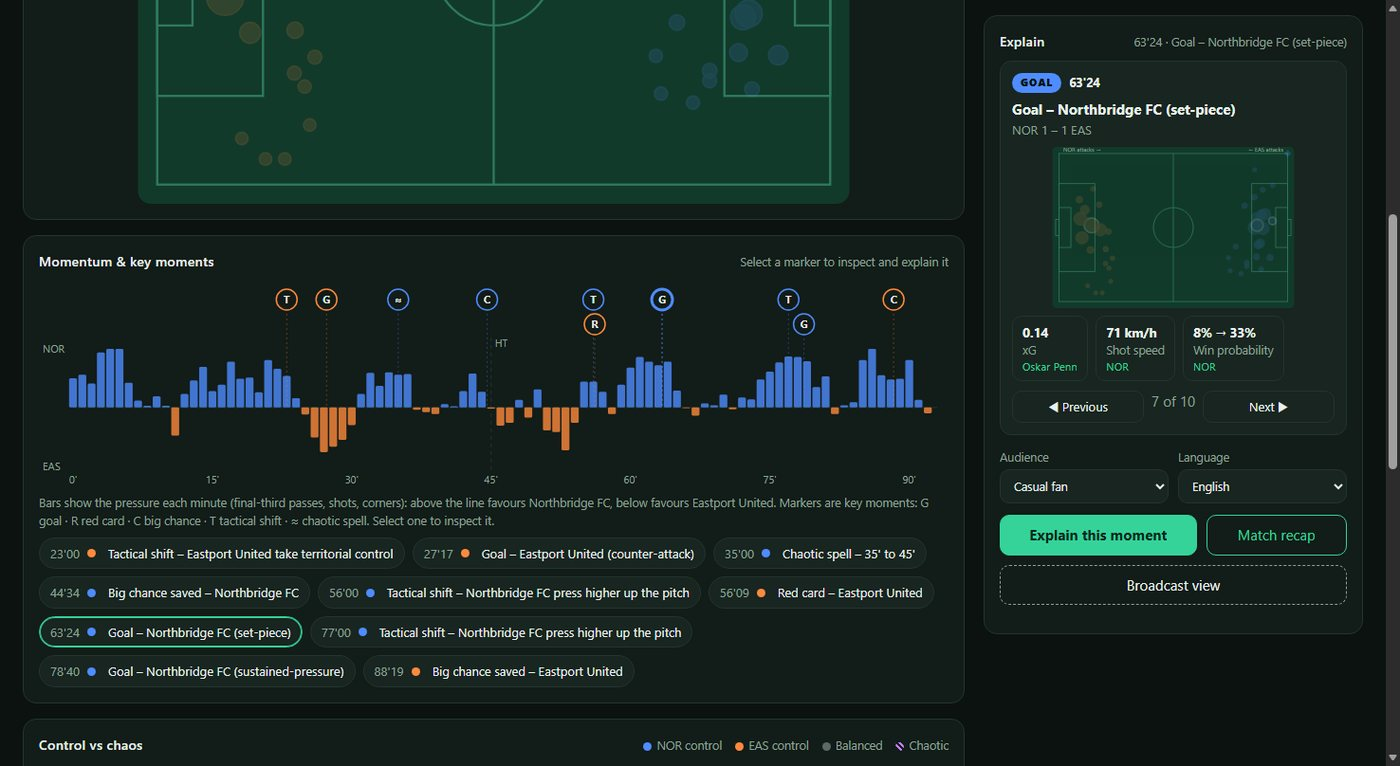
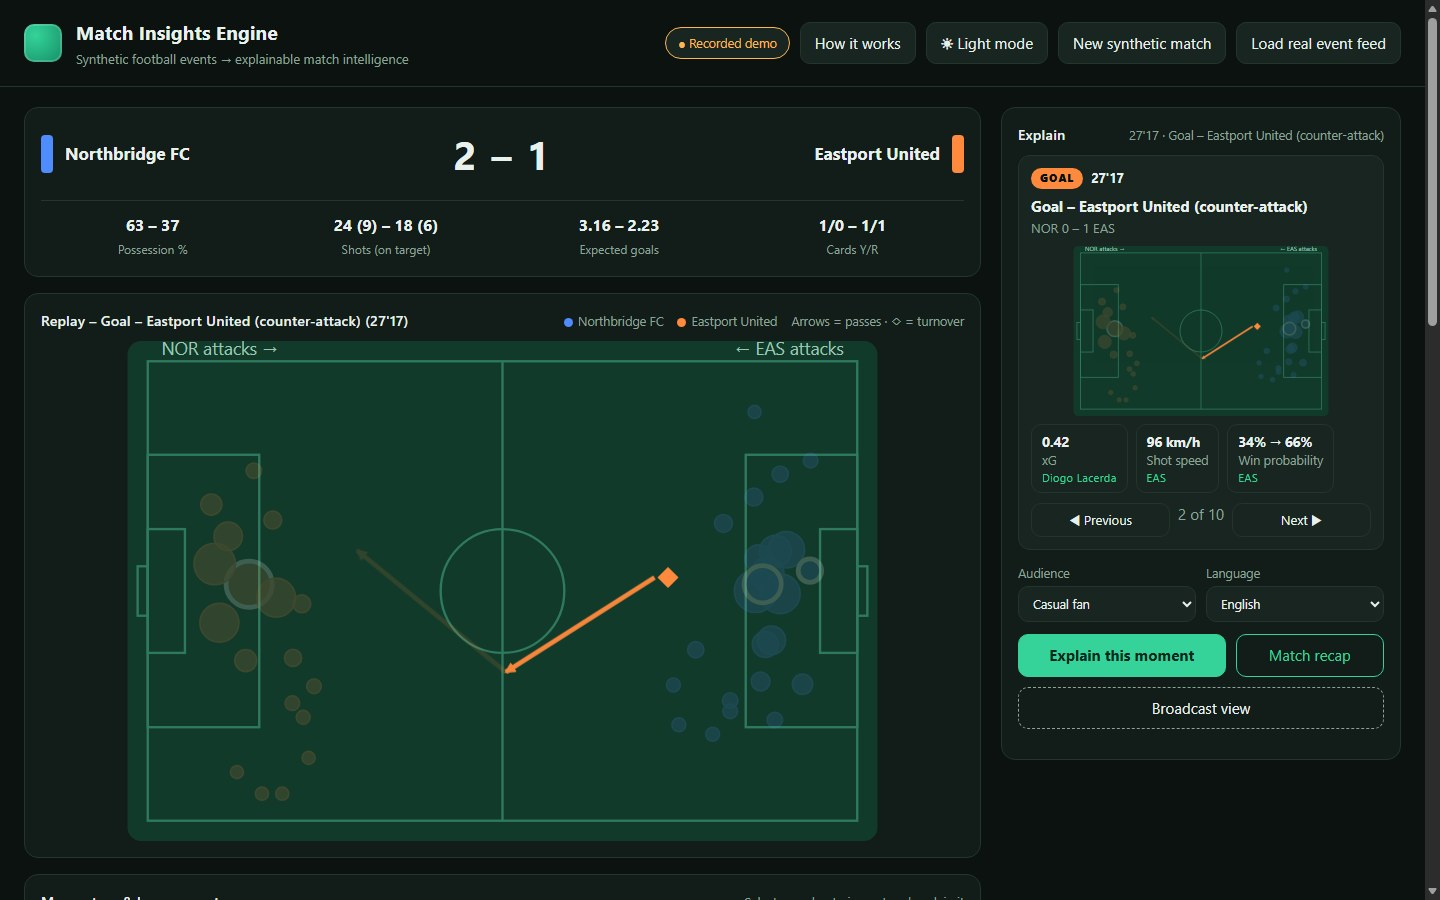
Refresh screenshots: light mode, all players, explanation with verification

diff --git a/README.md b/README.md
@@ -35,6 +35,10 @@ What to try:
 
 ![Players and the control-vs-chaos strip](docs/img/player-spotlight.jpg)
 
+![Every player of both teams, in light mode](docs/img/all-players-light.jpg)
+
+![An explanation with its verification box, in light mode](docs/img/explanation-light.jpg)
+
 ## Microsoft technologies used
 
 - **Microsoft Foundry**: the model deployment (gpt-4.1-mini) and project endpoint used by every agent.
